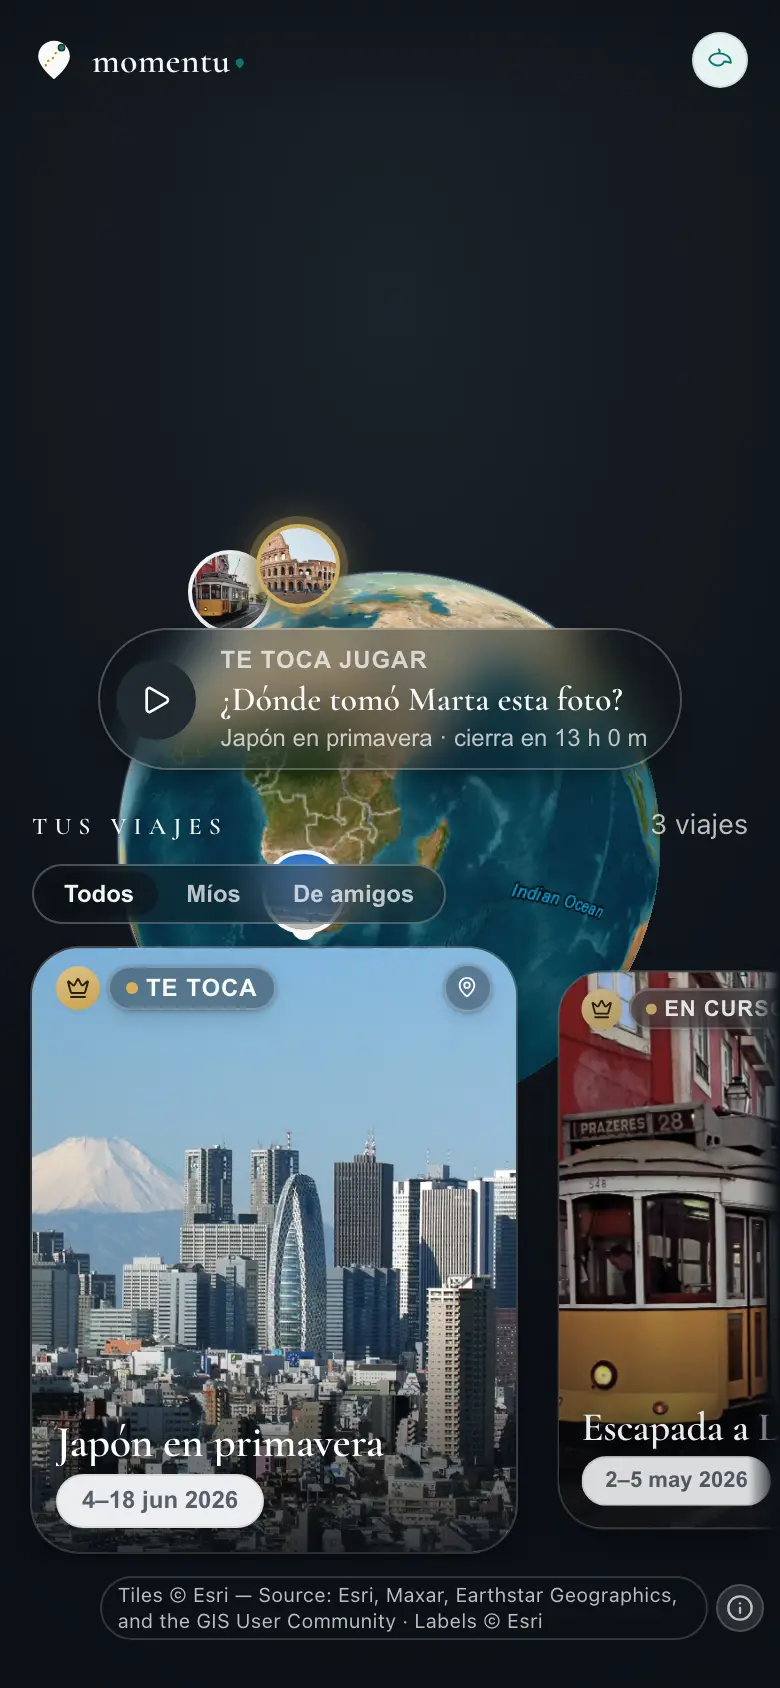
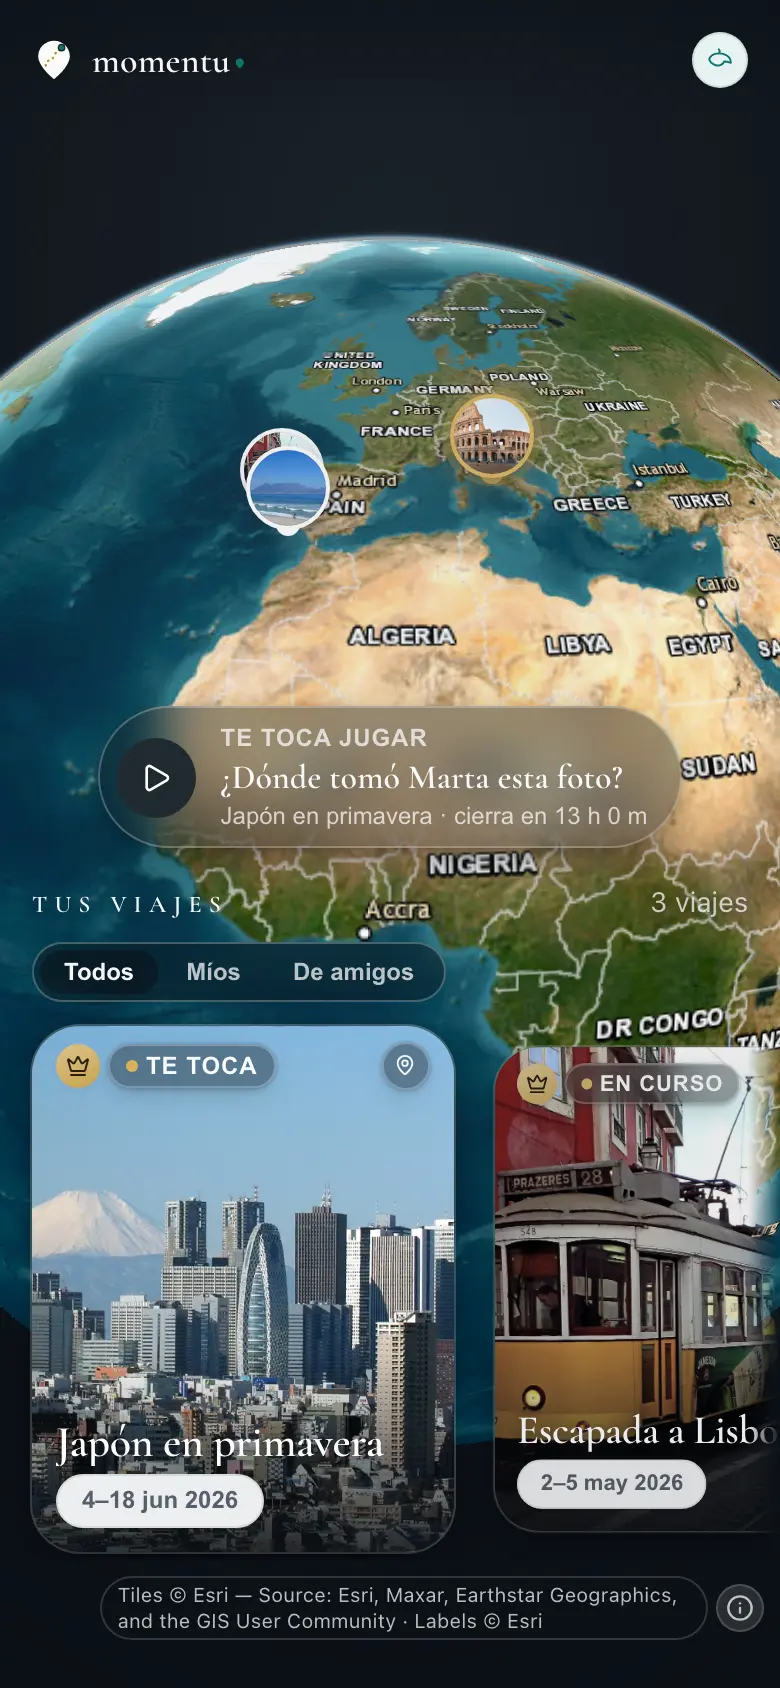
style(landing): showcase eurocéntrico y assets regenerados con el mundo real
Los webp de #697 se generaron antes del encuadre de #696 y con fixtures
que abarcaban medio planeta: el fit del mundo real centraba la esfera en
la Antártida. El viaje showcase pasa a Algarve→Lisboa→Roma y showcase-home
estrena su propio set de pines europeo (la landing real sigue con
HOME_DEMO_PINS); assets regenerados con landing:assets — Europa y África
en satélite Esri, pines agrupados y atribución legible.

diff --git a/web/src/gallery/showcaseFixtures.ts b/web/src/gallery/showcaseFixtures.ts
@@ -29,11 +29,45 @@ import tokioPhoto from './assets/tokio-lg.webp'
 import sidneyPhoto from './assets/sidney-lg.webp'
 import ciudadDelCaboPhoto from './assets/ciudad-del-cabo-lg.webp'
 import romaPhoto from './assets/roma-lg.webp'
-import type { HomeGroup, HomePinned } from '../ui'
+import type { GlobePin, HomeGroup, HomePinned } from '../ui'
 import type { Moment, RoutePoint } from '../lib/trip'
 import type { GameSceneData } from '../features/play/GameScene'
 
 // ── showcase-home: dashboard logueado con portadas y pines-foto reales ───────
+
+// Pines del globo SOLO para la captura showcase-home (landing:assets): el set
+// demo global (HOME_DEMO_PINS) abarca Tokio-Sídney-Ciudad del Cabo y el fit del
+// mundo real centraba la esfera en la Antártida (centroide oceánico). Para el
+// asset de marketing usamos el mismo arco europeo del viaje showcase: la esfera
+// enseña tierra reconocible y los pines caen agrupados. La landing REAL sigue
+// usando HOME_DEMO_PINS (allí el globo deriva y funciona bien).
+export const SHOWCASE_HOME_PINS: GlobePin[] = [
+  {
+    id: 'showcase-lisboa',
+    lat: 38.7223,
+    lng: -9.1393,
+    title: 'Lisboa',
+    imageUrl: lisboaPhoto,
+    targetId: 'showcase',
+  },
+  {
+    id: 'showcase-algarve',
+    lat: 37.0891,
+    lng: -8.2479,
+    title: 'Algarve',
+    imageUrl: ciudadDelCaboPhoto,
+    targetId: 'showcase',
+  },
+  {
+    id: 'showcase-roma',
+    lat: 41.8902,
+    lng: 12.4922,
+    title: 'Roma',
+    imageUrl: romaPhoto,
+    targetId: 'showcase',
+    lead: true,
+  },
+]
 export const SHOWCASE_HOME_GROUPS: HomeGroup[] = [
   {
     id: 'showcase-japon',
@@ -97,22 +131,22 @@ export const SHOWCASE_MOMENTS: Moment[] = [
     country: { code: 'PT', name: 'PORTUGAL', flag: '🇵🇹' },
   },
   {
-    challengeId: 'showcase-tokio-noche',
+    challengeId: 'showcase-roma-noche',
     title: '¿Dónde nos perdimos esta noche?',
-    description: 'Luces de neón hasta donde alcanza la vista.',
+    description: 'Dos mil años de piedra y nosotros sin mapa.',
     status: 'closed',
     isChallenge: true,
     date: '2026-06-12T20:00:00.000Z',
     deadlineAt: '2026-06-13T20:00:00.000Z',
-    imageUrl: tokioPhoto,
+    imageUrl: romaPhoto,
     imagePath: null,
-    lat: 35.6762,
-    lng: 139.6503,
+    lat: 41.8902,
+    lng: 12.4922,
     guessedCount: 3,
     isOwn: false,
     guessSeconds: 30,
     svPanoId: null,
-    country: { code: 'JP', name: 'JAPÓN', flag: '🇯🇵' },
+    country: { code: 'IT', name: 'ITALIA', flag: '🇮🇹' },
   },
   {
     challengeId: 'showcase-sidney-atardecer',
@@ -134,22 +168,22 @@ export const SHOWCASE_MOMENTS: Moment[] = [
     svPanoId: null,
   },
   {
-    challengeId: 'showcase-capetown-mesa',
-    title: 'Mesa redonda al amanecer',
-    description: 'Subimos antes de que abriera el teleférico.',
+    challengeId: 'showcase-algarve-amanecer',
+    title: 'Amanecer en el Algarve',
+    description: 'Madrugón para tener la playa entera para nosotros.',
     status: 'recuerdo',
     isChallenge: false,
     date: '2026-06-08T07:00:00.000Z',
     deadlineAt: null,
     imageUrl: ciudadDelCaboPhoto,
     imagePath: null,
-    lat: -33.9249,
-    lng: 18.4241,
+    lat: 37.0891,
+    lng: -8.2479,
     guessedCount: 0,
     isOwn: false,
     guessSeconds: null,
     svPanoId: null,
-    country: { code: 'ZA', name: 'SUDÁFRICA', flag: '🇿🇦' },
+    country: { code: 'PT', name: 'PORTUGAL', flag: '🇵🇹' },
   },
 ]
 
@@ -157,10 +191,10 @@ export const SHOWCASE_MOMENTS: Moment[] = [
 // entran en la polyline (el activo, sin lat/lng, queda fuera a propósito).
 export const SHOWCASE_ROUTE: RoutePoint[] = [
   {
-    challengeId: 'showcase-capetown-mesa',
-    lat: -33.9249,
-    lng: 18.4241,
-    title: 'Mesa redonda al amanecer',
+    challengeId: 'showcase-algarve-amanecer',
+    lat: 37.0891,
+    lng: -8.2479,
+    title: 'Amanecer en el Algarve',
     imageUrl: ciudadDelCaboPhoto,
     date: '2026-06-08T07:00:00.000Z',
   },
@@ -173,16 +207,16 @@ export const SHOWCASE_ROUTE: RoutePoint[] = [
     date: '2026-06-10T09:00:00.000Z',
   },
   {
-    challengeId: 'showcase-tokio-noche',
-    lat: 35.6762,
-    lng: 139.6503,
+    challengeId: 'showcase-roma-noche',
+    lat: 41.8902,
+    lng: 12.4922,
     title: '¿Dónde nos perdimos esta noche?',
-    imageUrl: tokioPhoto,
+    imageUrl: romaPhoto,
     date: '2026-06-12T20:00:00.000Z',
   },
 ]
 
-export const SHOWCASE_SELECTED_MOMENT = 'showcase-tokio-noche'
+export const SHOWCASE_SELECTED_MOMENT = 'showcase-roma-noche'
 
 // ── showcase-jugar: la escena de JUGAR a pantalla completa (foto real), 100%
 // presentacional vía `GameScene` (extraída de PlayChallenge, sin estado propio):

diff --git a/web/src/gallery/cases.tsx b/web/src/gallery/cases.tsx
@@ -60,6 +60,7 @@ import {
 } from './fixtures'
 import {
   SHOWCASE_HOME_GROUPS,
+  SHOWCASE_HOME_PINS,
   SHOWCASE_HOME_PINNED,
   SHOWCASE_JUGAR_SCENE,
   SHOWCASE_JUGAR_TITLE,
@@ -73,7 +74,6 @@ import {
   SHOWCASE_ROUTE,
   SHOWCASE_SELECTED_MOMENT,
 } from './showcaseFixtures'
-import { HOME_DEMO_PINS } from '../features/home/homeDemoPins'
 
 export interface GalleryCase {
   id: string
@@ -699,7 +699,7 @@ export const cases: GalleryCase[] = [
         userId={ME_ID}
         displayName="Lewis"
         groups={SHOWCASE_HOME_GROUPS}
-        pins={HOME_DEMO_PINS}
+        pins={SHOWCASE_HOME_PINS}
         pinned={SHOWCASE_HOME_PINNED}
         onOpenProfile={noop}
         onCreateGroup={noop}